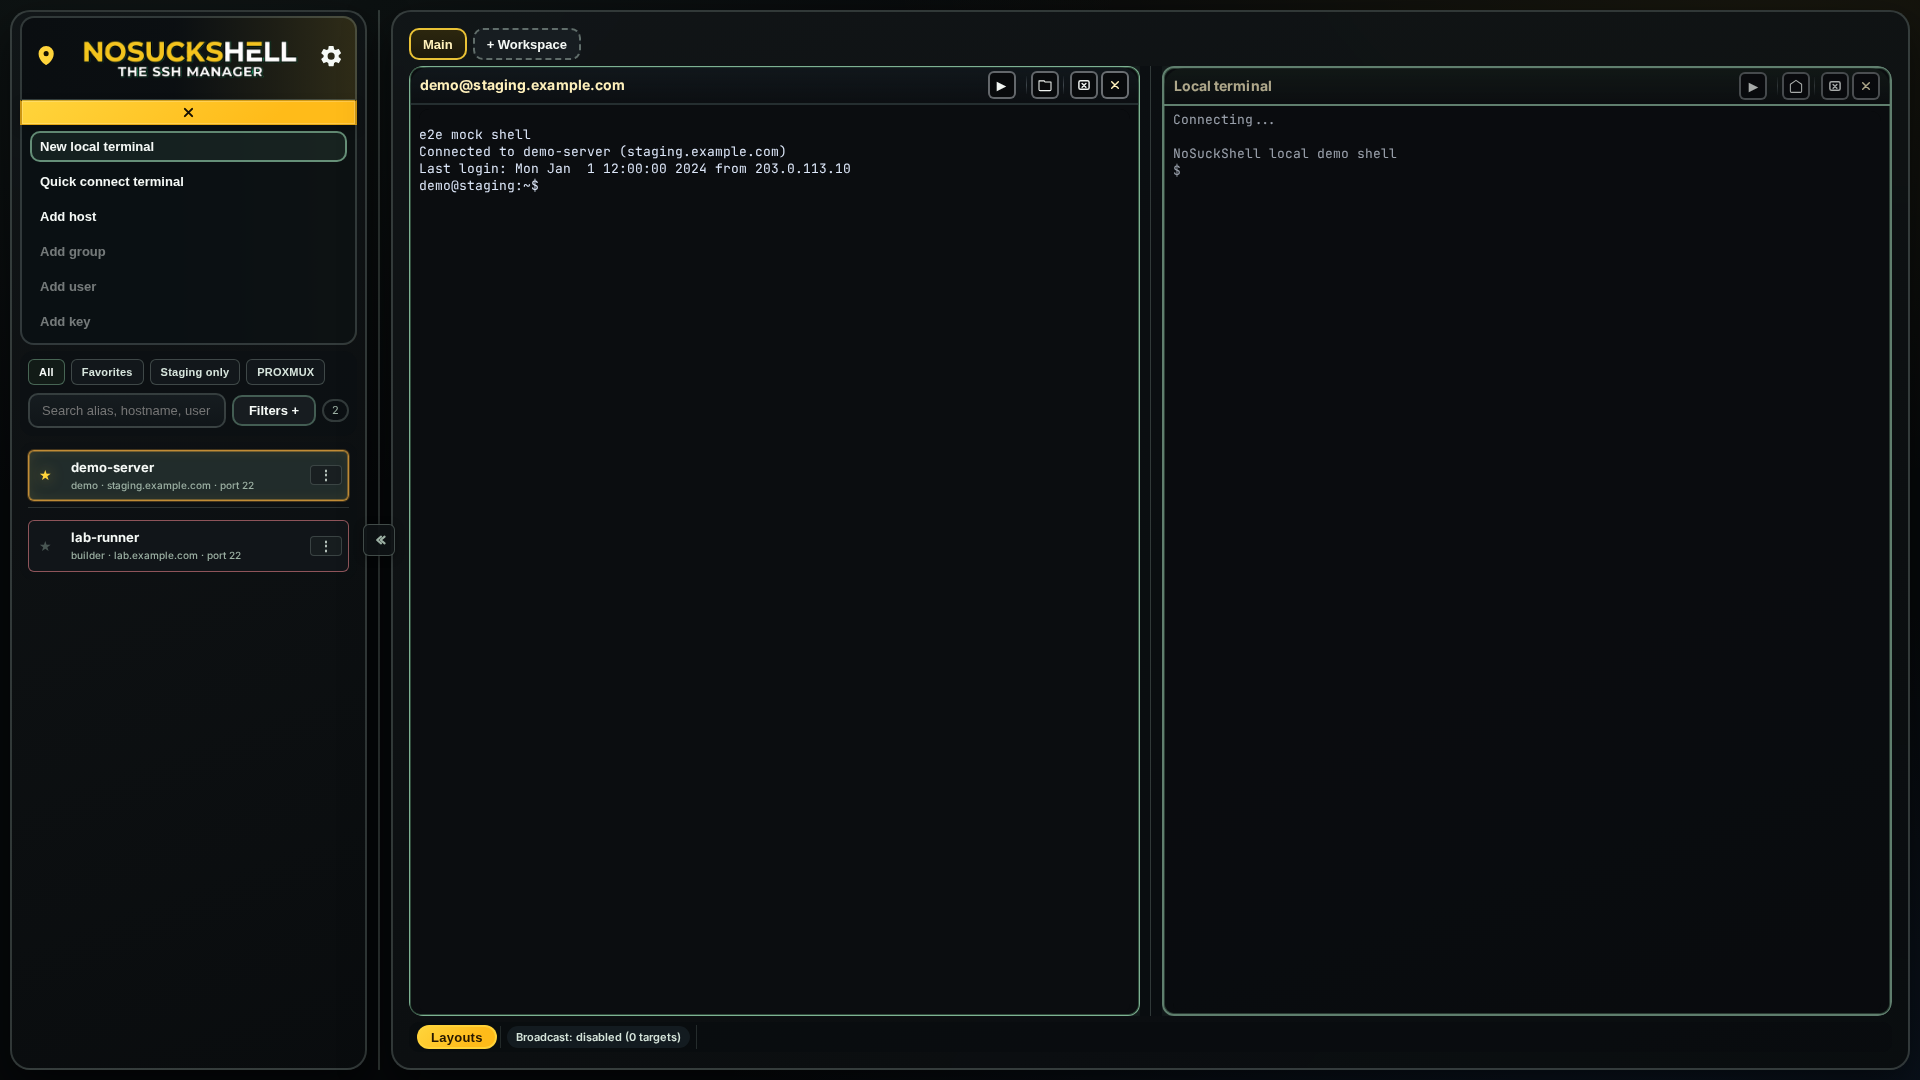
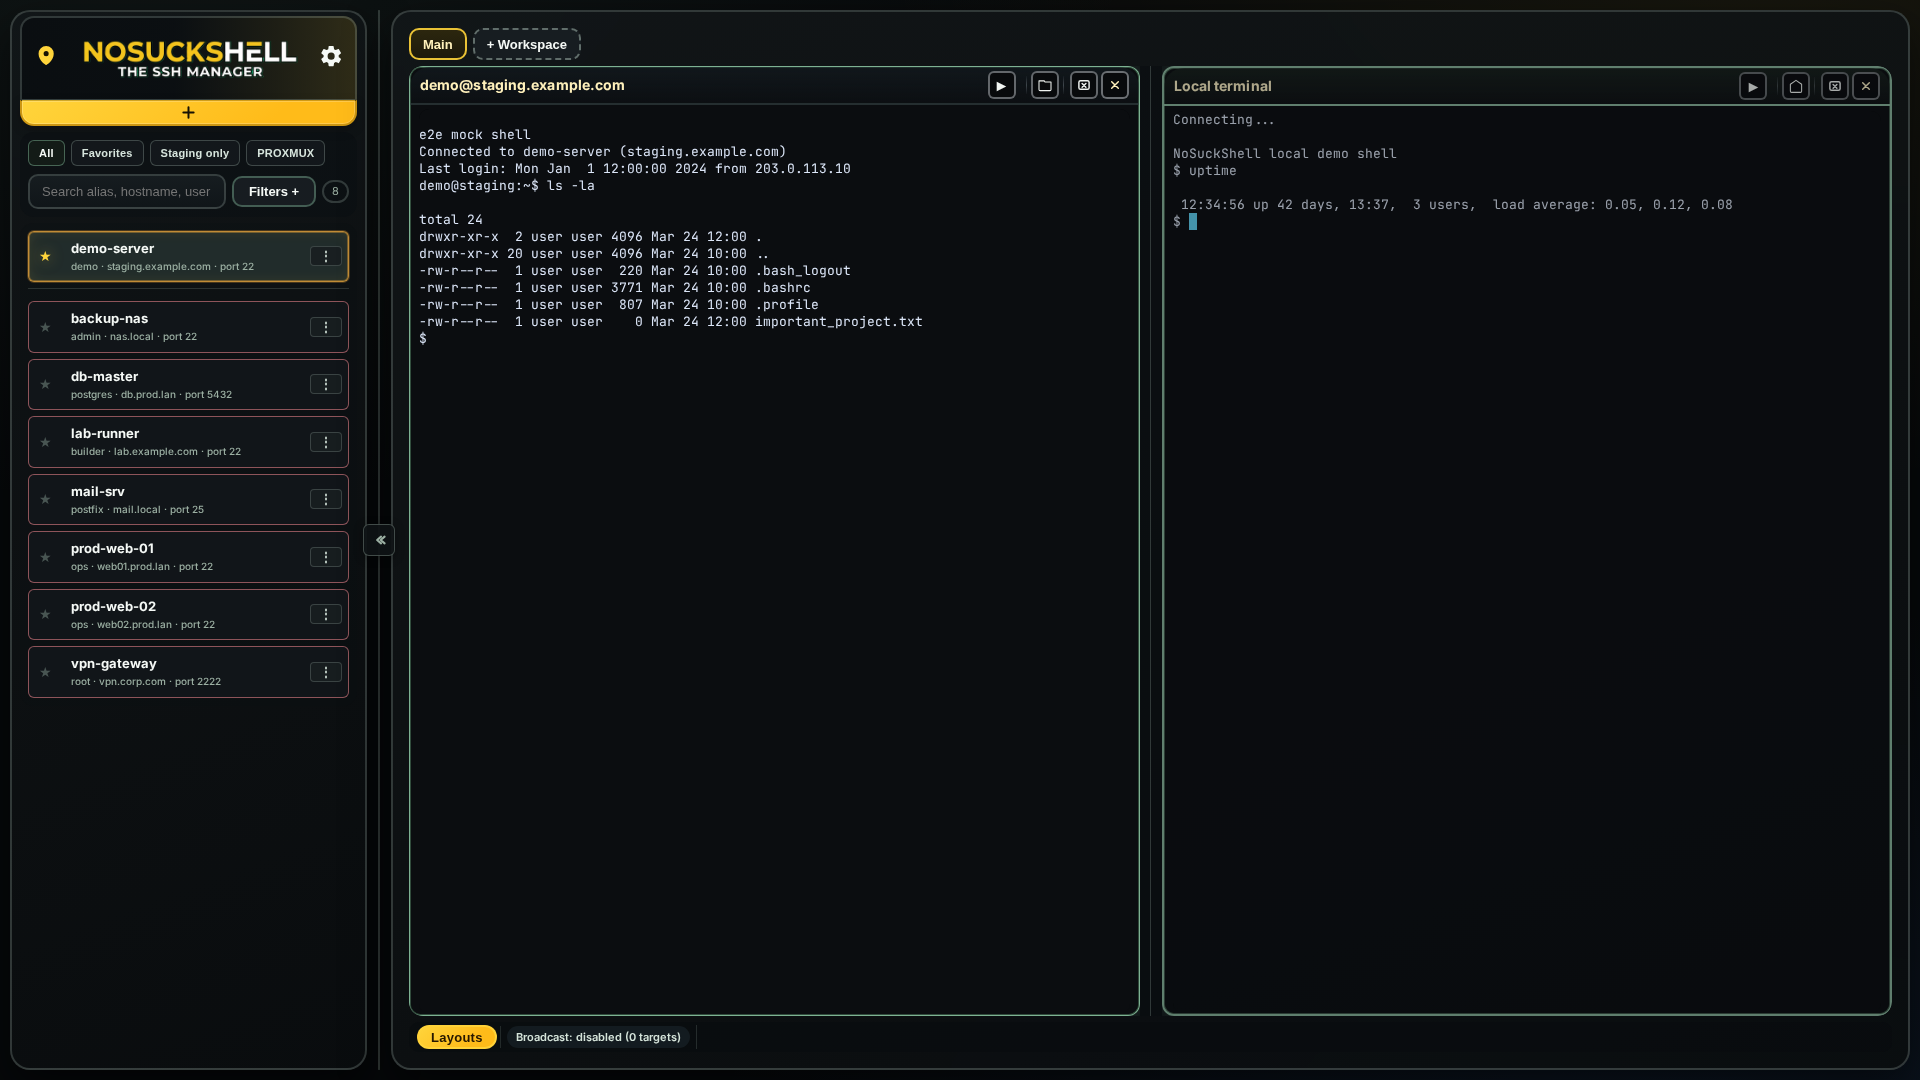
release: v0.1.0-beta.11 - version bump, changelog update, and new marketing screenshots (08-11)

diff --git a/docs/CHANGELOG.md b/docs/CHANGELOG.md
@@ -2,6 +2,30 @@
 
 All notable changes to **NoSuckShell** are documented here. Version numbers follow the desktop app (`apps/desktop`); GitHub releases are created from `v*` tags (see [releases.md](releases.md)).
 
+## [0.1.0-beta.11] - 2026-03-24
+
+### Added
+- **Version bump** — Official beta 11 release.
+- **Documentation** — Updated changelog with missing version details from beta 8, 9, and 10; synchronized `releases.md`.
+- **Marketing screenshots** — Updated high-resolution screenshots for Proxmox, SFTP, and local files; added Proxmox VNC view.
+
+## [0.1.0-beta.10] - 2026-03-24
+
+### Added
+- **Screenshots automation** — GitHub Actions workflow for automated store screenshot generation (`screenshots.yml`).
+- **Visuals** — Refined marketing screenshots with hybrid Proxmox views (terminal + noVNC).
+
+## [0.1.0-beta.9] - 2026-03-23
+
+### Added
+- **Manual builds** — `manual-build.yml` workflow with platform selection (Linux, macOS, Windows) for targeted testing outside the release cycle.
+
+## [0.1.0-beta.8] - 2026-03-23
+
+### Fixed
+- **Arch Linux build** — Corrected file paths and dependencies in the CI workflow for Arch Linux workspace builds.
+- **Security** — Addressed code scanning alerts related to TLS certificate checks in development/test utilities.
+
 ## [0.1.0-beta.7] - 2026-03-23
 
 **Pre-release.** Binaries are published after you push tag [`v0.1.0-beta.7`][v0.1.0-beta.7] and the [release workflow](../.github/workflows/release.yml) completes.
@@ -106,3 +130,7 @@ Pre-release [`v0.1.0-beta.1`][v0.1.0-beta.1].
 [v0.1.0-beta.5]: https://github.com/d0dg3r/NoSuckShell/releases/tag/v0.1.0-beta.5
 [v0.1.0-beta.6]: https://github.com/d0dg3r/NoSuckShell/releases/tag/v0.1.0-beta.6
 [v0.1.0-beta.7]: https://github.com/d0dg3r/NoSuckShell/releases/tag/v0.1.0-beta.7
+[v0.1.0-beta.8]: https://github.com/d0dg3r/NoSuckShell/releases/tag/v0.1.0-beta.8
+[v0.1.0-beta.9]: https://github.com/d0dg3r/NoSuckShell/releases/tag/v0.1.0-beta.9
+[v0.1.0-beta.10]: https://github.com/d0dg3r/NoSuckShell/releases/tag/v0.1.0-beta.10
+[v0.1.0-beta.11]: https://github.com/d0dg3r/NoSuckShell/releases/tag/v0.1.0-beta.11

diff --git a/docs/releases.md b/docs/releases.md
@@ -87,14 +87,14 @@ git tag v0.3.0-rc.1
 git push origin v0.3.0-rc.1
 
 # beta prerelease (current line)
-git tag v0.1.0-beta.7
-git push origin v0.1.0-beta.7
+git tag v0.1.0-beta.11
+git push origin v0.1.0-beta.11
 ```
 
 ## Current beta (planned)
 
-- **Target tag:** `v0.1.0-beta.7` — push when you are ready; in-repo versions in `package.json`, `tauri.conf.json`, and `Cargo.toml` match this prerelease.
-- **What ships:** see [CHANGELOG.md](CHANGELOG.md) for `0.1.0-beta.7`.
+- **Target tag:** `v0.1.0-beta.11` — push when you are ready; in-repo versions in `package.json`, `tauri.conf.json`, and `Cargo.toml` match this prerelease.
+- **What ships:** see [CHANGELOG.md](CHANGELOG.md) for `0.1.0-beta.11`.
 - The release workflow still **overwrites** those files from the tag at build time; keeping them in sync avoids drift before the tag lands.
 
 ## Common pitfalls checklist
